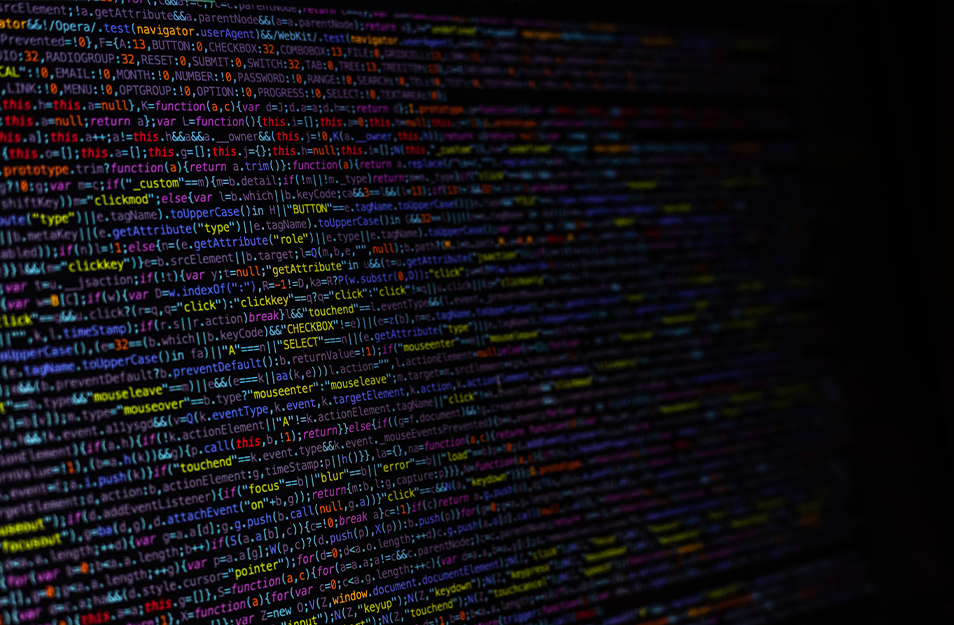
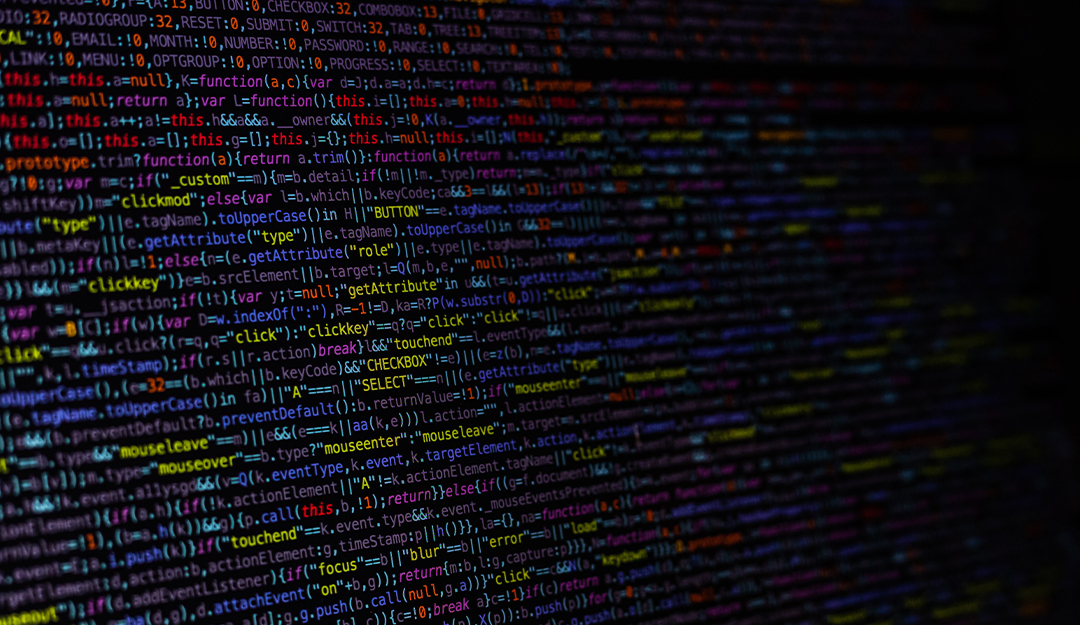
Edited project assets

diff --git a/src/Data/projects/happiibook.ts b/src/Data/projects/happiibook.ts
@@ -1,4 +1,4 @@
-import img from "../../Assets/images/3.jpg";
+import img from "../../Assets/images/1.jpg";
 import { IoLogoFirebase, IoApps } from "react-icons/io5";
 import { FaReact } from "react-icons/fa";
 
@@ -12,8 +12,8 @@ export const Happiibook = {
   ],
   backgroundImg: img,
   cruces: [
-    "Implemented a mono-repository architecture using Nrwl NX that housed all internal and external applications/libraries",
-    // "Designed and implemented full stack React functional components in TypeScript optimized for scalability and readability",
+    "Implemented a mono-repository architecture using Nrwl NX that housed all internal and external applications and libraries",
+    "Designed and implemented full stack React functional components in TypeScript optimized for scalability and readability",
     "Developed social networking features on the main user React web application using the React context API and Firestore",
     "Implemented functionality that allowed users to update their info in real time using UI inline editing and Firebase listeners",
   ],

diff --git a/src/Components/ui/ProjectCard.tsx b/src/Components/ui/ProjectCard.tsx
@@ -77,19 +77,10 @@ export const ProjectCard: React.FC<ProjectCardProps> = (
   const ProjectDetails = () => {
     return (
       <div>
-        <p
-          style={{
-            color: "white",
-            fontSize: "2.3vh",
-            fontFamily: "San Francisco Text",
-          }}
-        >
-          Company:
-        </p>
         <div>
           {props.data.cruces.map((crux: string, index: number) => (
             <div key={index} style={{ marginTop: "25px" }}>
-              <ul>
+              <ul style={{ color: "white" }}>
                 <li style={{ backgroundColor: "" }}>
                   <p className="displayCrux">{crux}</p>
                 </li>

diff --git a/src/Components/sections/Projects.tsx b/src/Components/sections/Projects.tsx
@@ -4,7 +4,7 @@ import { ProjectCard } from "../ui/ProjectCard";
 import { Foodie, Happiibook, UIS, Research } from "../../Data/projects";
 
 export const FeaturedProjects: React.FC = () => {
-  const FeaturedProjects = [Foodie, Happiibook, UIS, Research];
+  const FeaturedProjects = [Foodie, UIS, Happiibook, Research];
 
   return (
     <Container fluid id="projectsWrapper">

diff --git a/src/Data/projects/foodie.ts b/src/Data/projects/foodie.ts
@@ -16,6 +16,5 @@ export const Foodie = {
     "Allowed users to rank individual restaurant plates",
     "Built interactive comment chat",
     "Designed graphical assets",
-    "Senior Design",
   ],
 };
